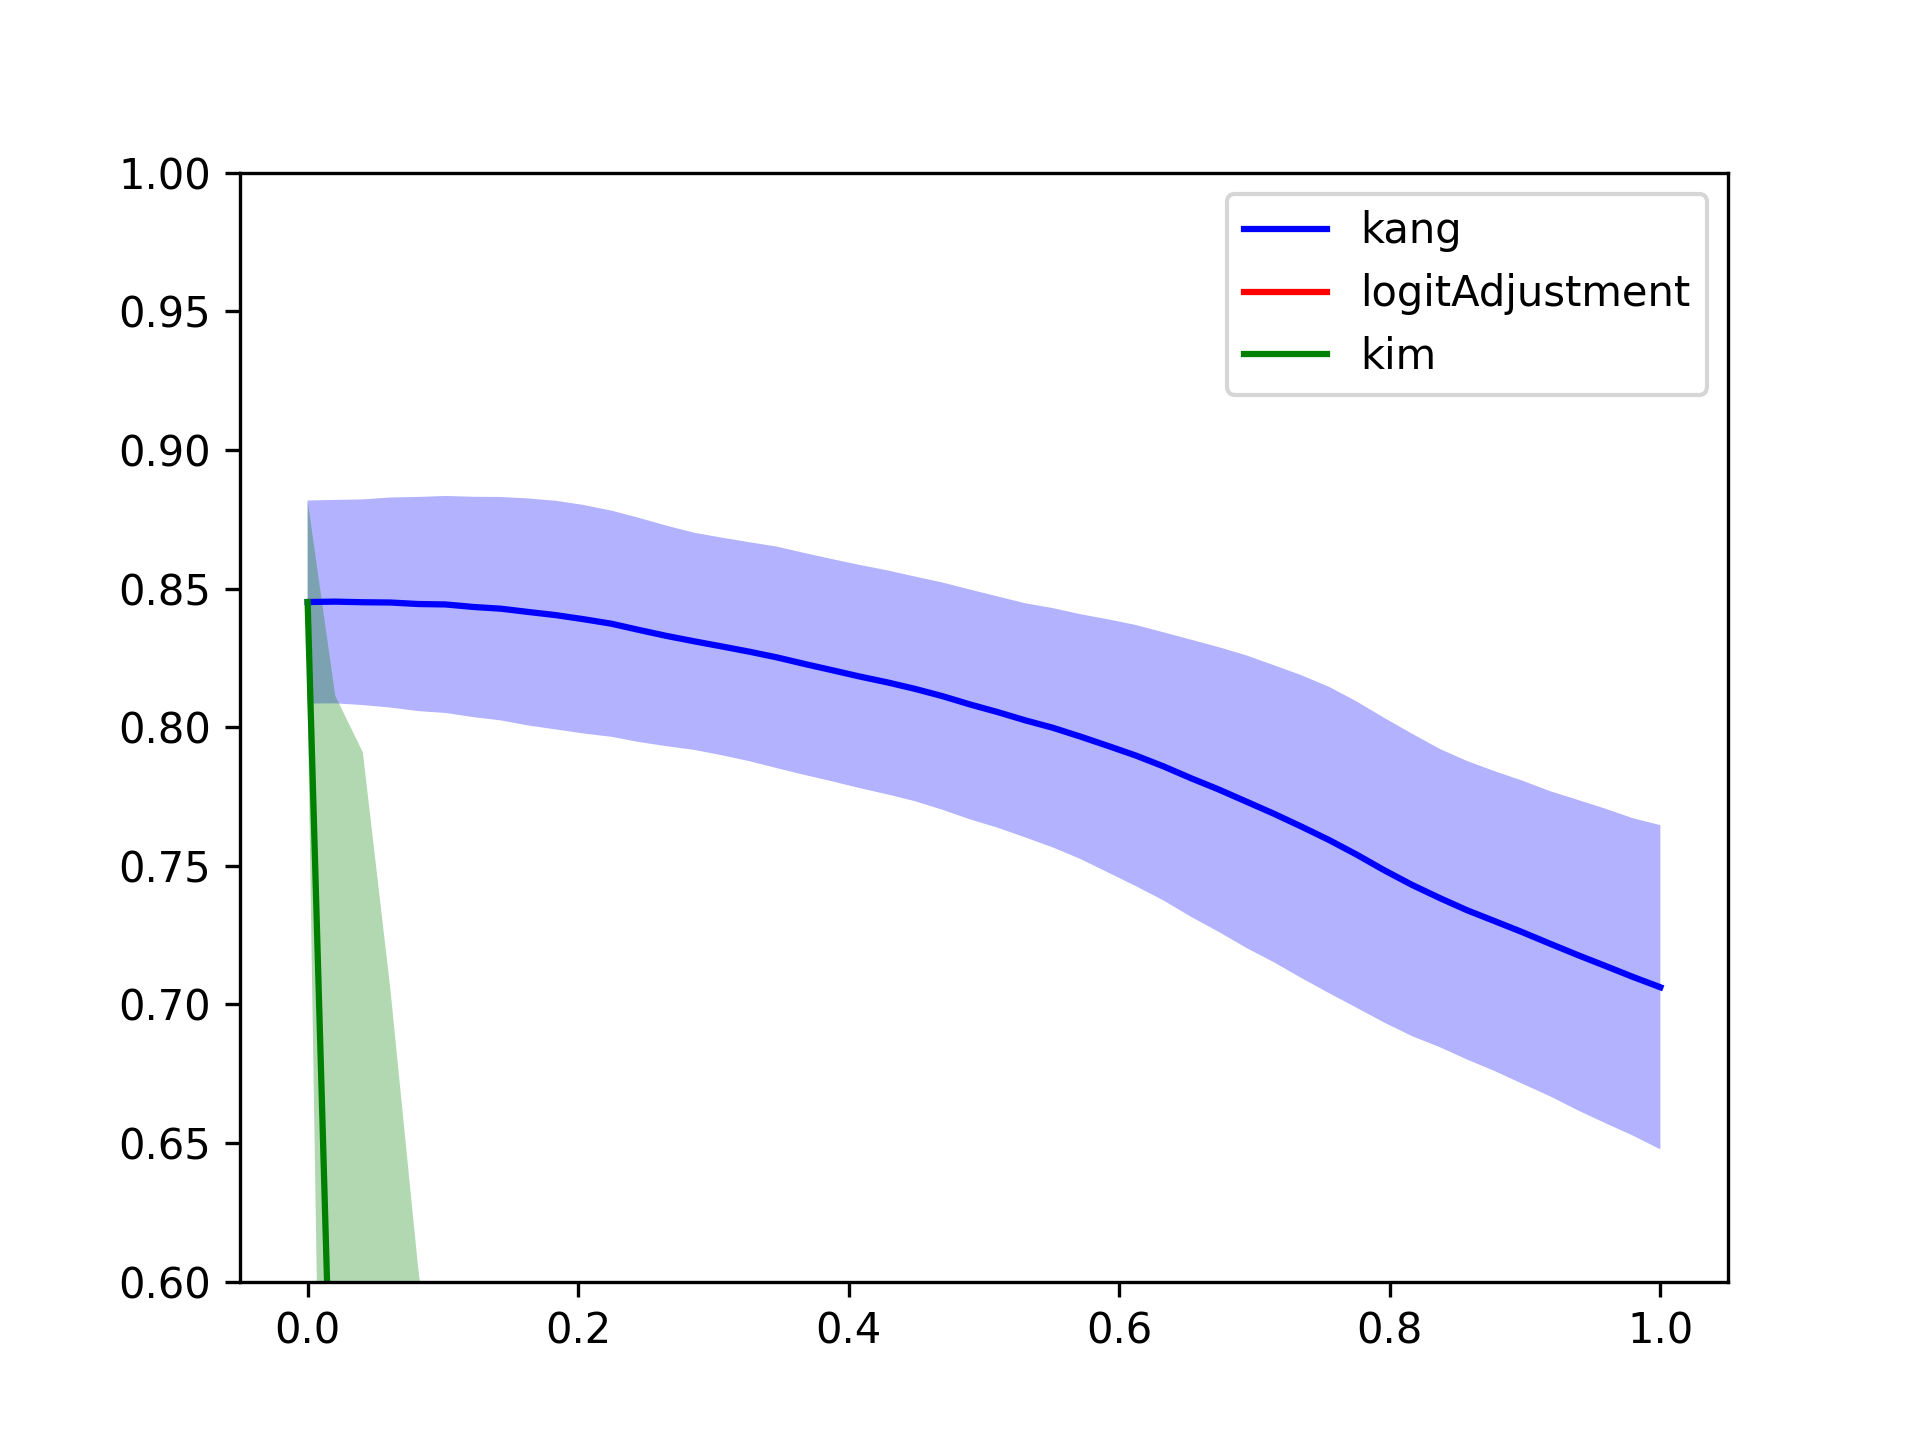
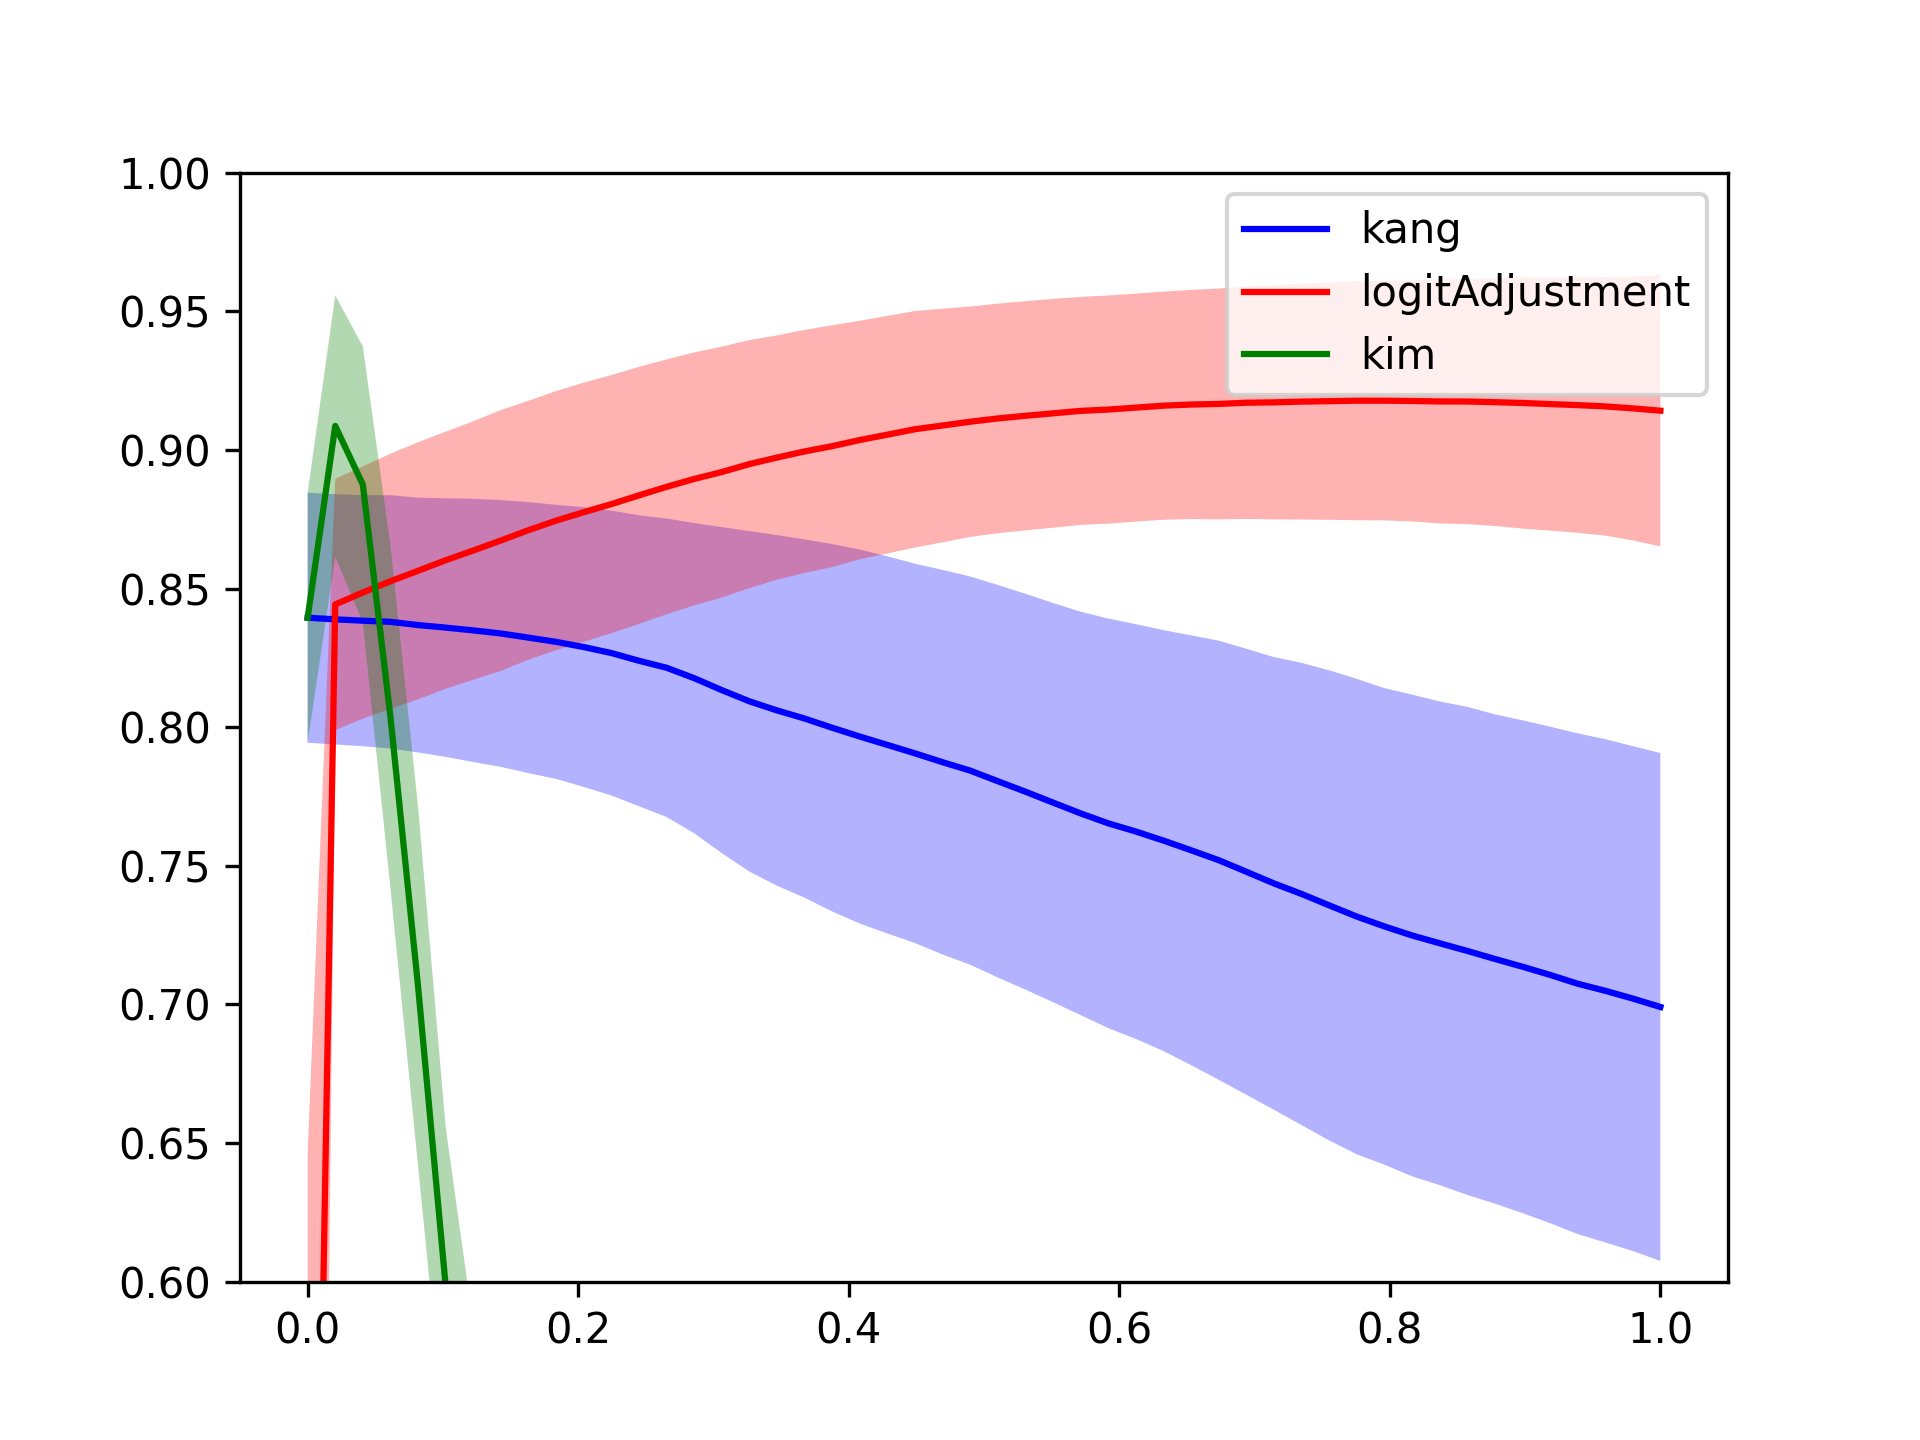
Updating images

diff --git a/synthExp3/postHocMod.py b/synthExp3/postHocMod.py
@@ -32,7 +32,7 @@ class NeuralNetwork(nn.Module):
         features = self.linear_relu_stack(x)
         return torch.matmul(features, self.Wmatrix)
     
-    def kang(self, input,tau):
+    def weightNorm(self, input,tau):
       output = self.__call__(input)
       norms = LA.norm(model.Wmatrix,dim=0)
       return torch.div(output,torch.pow(norms,tau))
@@ -42,7 +42,7 @@ class NeuralNetwork(nn.Module):
       out = output - tau*torch.log(weights)
       return out
 
-    def kim(self, input,tau, weights):
+    def rescaling(self, input,tau, weights):
       output = self.__call__(input)
       return torch.div(output,torch.pow(weights,tau))
 
@@ -70,7 +70,7 @@ def train_loop(dataloader, model, loss_fn, optimizer):
     print("Train accuracy: ",100* (correct/size), "% Train numbers: ",correct, " / ",size)
 
 
-def test_loop(dataloader, model, loss_fn,weights,method="kang", tau=torch.tensor(0),zeros=[]):
+def test_loop(dataloader, model, loss_fn,weights,method=None, tau=torch.tensor(0),zeros=[]):
     # performance keeps track of the average performance on the tail classes
     size = len(dataloader.dataset)
     tail_size = size - train_dataset.empiricalWeight()[0]
@@ -80,17 +80,22 @@ def test_loop(dataloader, model, loss_fn,weights,method="kang", tau=torch.tensor
 
     with torch.no_grad():
         for X, y in dataloader:
-            if method == "kang":
-              pred = model.kang(X,tau)
-            elif method == "logitAdjustment":
+            if method == "weight normalisation":
+              pred = model.weightNorm(X,tau)
+            elif method == "Logit Adjustment":
               pred = model.logitAdjustment(X, tau, weights)
-            elif method == "kim":
-              pred = model.kim(X,tau,weights)
+            elif method == "re-scaling method":
+              pred = model.rescaling(X,tau,weights)
+            else:
+                pred = model(X)
             
             # set columns in pred to minimum value if column number is in zeros
-            minCol = torch.ones(y.shape[0])*(torch.min(pred)-1)
+            #minCol = torch.ones(y.shape[0])*(torch.min(pred)-1)
+            minCol = torch.ones(y.shape[0])*torch.finfo(torch.float32).min
             for col in zeros:
                 pred[:,col] = minCol
+
+            
 
             test_loss += loss_fn(pred, y).item()
             correct += (pred.argmax(1) == y.argmax(1)).type(torch.float).sum().item()
@@ -257,7 +262,7 @@ if __name__ == "__main__":
             print(f"Epoch {t+1}\n-------------------------------"+str(k))
             train_loop(train_dataloader, model, loss_fn, optimizer)
         
-        methods =  ["kang","logitAdjustment","kim"]
+        methods =  ["weight normalisation","Logit Adjustment","re-scaling method"]
         taus = np.linspace(0,1,50)
         for i in range(3):
             for j in range(50):
@@ -272,11 +277,11 @@ if __name__ == "__main__":
     stdDev = np.std(observations,axis=0)
     #ax, boundary = printDecBoundary(ax,model,detail=1000)
     #ax = train_dataset.printSample(ax)
-    with open('./synthExp3/postHocMeans.pkl', 'wb') as f:
-        pickle.dump(means, f)
+    # with open('./synthExp3/postHocMeans.pkl', 'wb') as f:
+    #     pickle.dump(means, f)
 
-    with open('./synthExp3/postHocStd.pkl', 'wb') as f:
-        pickle.dump(stdDev, f)
+    # with open('./synthExp3/postHocStd.pkl', 'wb') as f:
+    #     pickle.dump(stdDev, f)
 
 
     ax.plot(taus,means[:,0],color="blue")
@@ -292,7 +297,7 @@ if __name__ == "__main__":
 
 
 
-    plt.savefig("synthExp3/images/posthoccomparison",dpi=300)
+    plt.savefig("synthExp3/images/posthoccomparison2",dpi=500)
 
 
 

diff --git a/synthExp2/postHocMod.py b/synthExp2/postHocMod.py
@@ -30,7 +30,7 @@ class NeuralNetwork(nn.Module):
         features = self.linear_relu_stack(x)
         return torch.matmul(features, self.Wmatrix)
     
-    def kang(self, input,tau):
+    def weightNorm(self, input,tau):
       output = self.__call__(input)
       norms = LA.norm(model.Wmatrix,dim=0)
       return torch.div(output,torch.pow(norms,tau))
@@ -40,7 +40,7 @@ class NeuralNetwork(nn.Module):
       out = output - tau*torch.log(weights)
       return out
 
-    def kim(self, input,tau, weights):
+    def rescaling(self, input,tau, weights):
       output = self.__call__(input)
       return torch.div(output,torch.pow(weights,tau))
 
@@ -78,12 +78,14 @@ def test_loop(dataloader, model, loss_fn,weights,method="kang", tau=torch.tensor
 
     with torch.no_grad():
         for X, y in dataloader:
-            if method == "kang":
-              pred = model.kang(X,tau)
-            elif method == "logitAdjustment":
+            if method == "weight normalisation":
+              pred = model.weightNorm(X,tau)
+            elif method == "Logit Adjustment":
               pred = model.logitAdjustment(X, tau, weights)
-            elif method == "kim":
-              pred = model.kim(X,tau,weights)
+            elif method == "re-scaling method":
+              pred = model.rescaling(X,tau,weights)
+            else:
+                pred = model(X)
 
             test_loss += loss_fn(pred, y).item()
             correct += (pred.argmax(1) == y.argmax(1)).type(torch.float).sum().item()
@@ -214,8 +216,8 @@ def printDecBoundary(ax,model,detail=1000,color='black',modeltype="torch",distCo
 
 
 if __name__ == "__main__":
-    observations = np.zeros((100,50,3))
-    for k in range(100):
+    observations = np.zeros((10,50,3))
+    for k in range(10):
         print(" k = ",k)
         train_dataset = CustomSyntheticDataset(target_transform=Lambda(lambda y: torch.zeros(11, dtype=torch.float).scatter_(0, torch.tensor(y), value=1)),datasetSize=10000)
         test_dataset = CustomSyntheticDataset(target_transform=Lambda(lambda y: torch.zeros(11, dtype=torch.float).scatter_(0, torch.tensor(y), value=1)),dist=np.ones(11)/11,datasetSize=10000)
@@ -245,7 +247,7 @@ if __name__ == "__main__":
             #print(f"Epoch {t+1}\n-------------------------------")
             train_loop(train_dataloader, model, loss_fn, optimizer)
         
-        methods =  ["kang","logitAdjustment","kim"]
+        methods =  ["weight normalisation","Logit Adjustment","re-scaling method"]
         taus = np.linspace(0,1,50)
         for i in range(3):
             for j in range(50):
@@ -280,7 +282,7 @@ if __name__ == "__main__":
 
 
 
-    plt.savefig("synthExp2/images/posthoccomparison",dpi=300)
+    plt.savefig("synthExp2/images/posthoccomparison2",dpi=300)
 
 
 

diff --git a/synthExp3/postHocPlot.py b/synthExp3/postHocPlot.py
@@ -2,17 +2,20 @@ import matplotlib.pyplot as plt
 import numpy as np
 import pickle
 
-with open('synthExp3/postHocMeans.pkl', 'rb') as handle:
-    means = pickle.load(handle)
+# with open('synthExp3/postHocMeans.pkl', 'rb') as handle:
+#     means = pickle.load(handle)
   
-with open('synthExp3/postHocStd.pkl', 'rb') as handle:
-    stdDev = pickle.load(handle)
+# with open('synthExp3/postHocStd.pkl', 'rb') as handle:
+#     stdDev = pickle.load(handle)
+
+observations = np.load('synthExp3/observations.npy')
+means = np.mean(observations, axis=0)
+stdDev = np.std(observations,axis=0)
 
 fig, ax = plt.subplots()
 
 taus = np.linspace(0,1,50)
 max0 = np.argmax(means[:,0])
-print(max0)
 max1 = np.argmax(means[:,1])
 max2 = np.argmax(means[:,2])
 
@@ -25,14 +28,25 @@ ax.plot(taus,means[:,2],color="red")
 ax.fill_between(taus, means[:,0]-stdDev[:,0], means[:,0]+stdDev[:,0] ,alpha=0.3, facecolor="blue")
 ax.fill_between(taus, means[:,1]-stdDev[:,1], means[:,1]+stdDev[:,1] ,alpha=0.3, facecolor="orange")
 ax.fill_between(taus, means[:,2]-stdDev[:,2], means[:,2]+stdDev[:,2] ,alpha=0.3, facecolor="red")
-ax.legend(["weight normalization 1","logit adjustment","weight normalization 2"])
+methods =  ["weight normalisation","Logit Adjustment","re-scaling method"]
+ax.legend(methods)
 
 plt.scatter(taus[max0], means[max0,0],marker='x',color='black')
-ax.text(taus[max0], means[max0,0], "  " + '%.4f' % means[max0,0], transform=ax.transData)
+#ax.text(taus[max0], means[max0,0], "  " + '%.4f' % means[max2,2], transform=fig.transFigure)
+ax.text(taus[max0]+0.035, means[max0,0]-0.1, "  " + '%.4f' % means[max0,0], transform=fig.transFigure)
+
+#ax.text(taus[max0], means[max0,0], "  " + '%.4f' % means[max0,0], transform=ax.transData)
 plt.scatter(taus[max1], means[max1,1],marker='x',color='black')
 ax.text(taus[max1], means[max1,1], "   " + '%.4f' % means[max1,1], transform=ax.transData)
 plt.scatter(taus[max2], means[max2,2],marker='x',color='black')
 ax.text(taus[max2], means[max2,2], "  " + '%.4f' % means[max2,2], transform=ax.transData)
+
+#ax.text(0.02, 0.5, textstr, fontsize=14, transform=plt.gcf().transFigure)
+
+
+ax.yaxis.grid(True)
+ax.set_axisbelow(True)
+
 
 ax.set_xbound([0,1])
 ax.set_ybound([0,1.02])
@@ -42,5 +56,5 @@ ax.set_ylabel("test accuracy")
 
 
 
-plt.savefig('testing')
+plt.savefig('synthExp3/images/posthoccomparison3')
 plt.show()

diff --git a/synthExp3/neuralNetTraining3.py b/synthExp3/neuralNetTraining3.py
@@ -168,7 +168,7 @@ def printDecBoundary(ax,model,detail=1000,color='black',modeltype="torch",distCo
 if __name__ == "__main__":
     observationsTrain = np.zeros((5,7))
     observationsTest = np.zeros((5,7))
-    for k in range(1):
+    for k in range(5):
         print("k = ",k)
         train_dataset = CustomSyntheticDataset(dist=np.load('synthExp3/dist.npy'),target_transform=Lambda(lambda y: torch.zeros(33, dtype=torch.float).scatter_(0, torch.tensor(y), value=1)),datasetSize=10000)
         test_dataset = CustomSyntheticDataset(dist=np.ones(33)/33,target_transform=Lambda(lambda y: torch.zeros(33, dtype=torch.float).scatter_(0, torch.tensor(y), value=1)),datasetSize=10000)
@@ -217,13 +217,18 @@ if __name__ == "__main__":
     #fig, ax = plt.subplots()
     ax.yaxis.grid(True)
     ax.set_axisbelow(True)
-    ax.bar(np.arange(7)-0.1, observationsTrainMean,width=0.3)
-    ax.bar(np.arange(7)+0.1, observationsTestMean,width=0.3)
+    print("final ",observationsTrainMean)
+    ax.bar(np.arange(7)-0.15, observationsTrainMean,width=0.3)
+    ax.bar(np.arange(7)+0.15, observationsTestMean,width=0.3)
     #ax.set_xticks(2*np.arange(16))
-    ax.set_xlabel("class index")
+    ax.set_xlabel("class group")
     ax.set_ylabel("accuracy %")
     ax.legend(["train","test"])
-    plt.savefig('synthExp3/images/classAccuracy5',dpi=500)
+    plt.savefig('synthExp3/images/classAccuracy6',dpi=500)
+
+    # fig, ax = plt.subplots()
+    # ax, boundary = printDecBoundary(ax,model,detail=1000)
+    # plt.savefig('synthExp3/images/neuralNet3-1',dpi=500)
 
     ## Save to boundary
     if False:

diff --git a/synthExp2/postHocPlot.py b/synthExp2/postHocPlot.py
@@ -25,7 +25,7 @@ ax.plot(taus,means[:,2],color="red")
 ax.fill_between(taus, means[:,0]-stdDev[:,0], means[:,0]+stdDev[:,0] ,alpha=0.3, facecolor="blue")
 ax.fill_between(taus, means[:,1]-stdDev[:,1], means[:,1]+stdDev[:,1] ,alpha=0.3, facecolor="orange")
 ax.fill_between(taus, means[:,2]-stdDev[:,2], means[:,2]+stdDev[:,2] ,alpha=0.3, facecolor="red")
-ax.legend(["weight normalization 1","logit adjustment","weight normalization 2"])
+ax.legend(["weight normalisation","Logit Adjustment","re-scaling method"])
 
 plt.scatter(taus[max0], means[max0,0],marker='x',color='black')
 ax.text(taus[max0], means[max0,0], "  " + '%.4f' % means[max0,0], transform=ax.transData)
@@ -42,5 +42,5 @@ ax.set_ylabel("test accuracy")
 
 
 
-plt.savefig('testing')
+plt.savefig('synthExp2/images/postHocComparison3')
 plt.show()

diff --git a/synthExp3/observation.py b/synthExp3/observation.py
@@ -1,0 +1,4 @@
+import numpy as np
+
+data = np.load('synthExp3/observations.npy')
+print(data[6,:,:])
